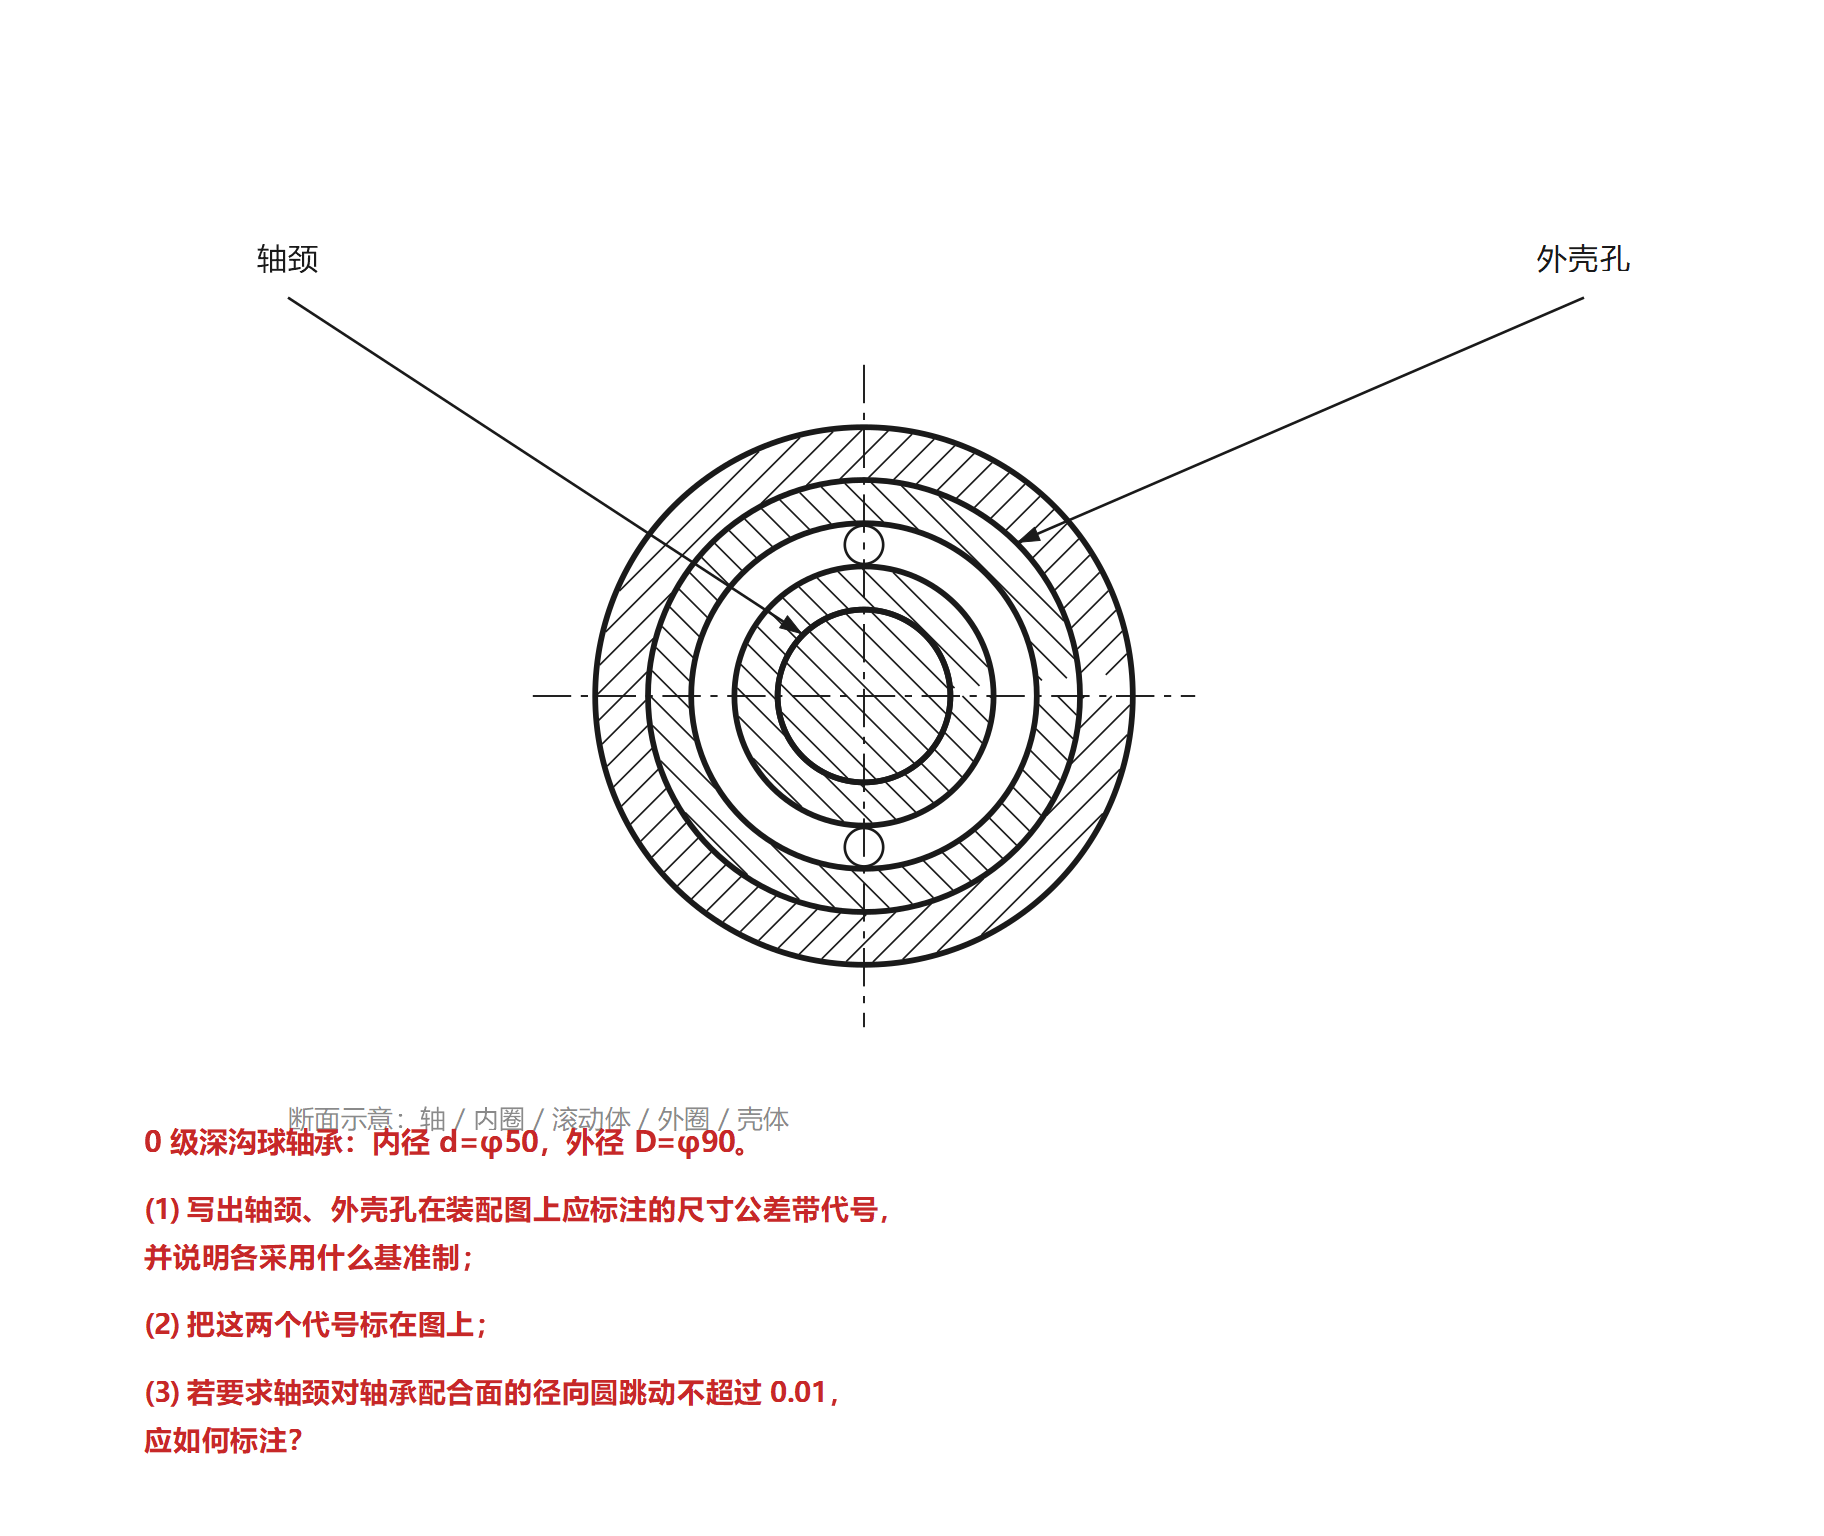
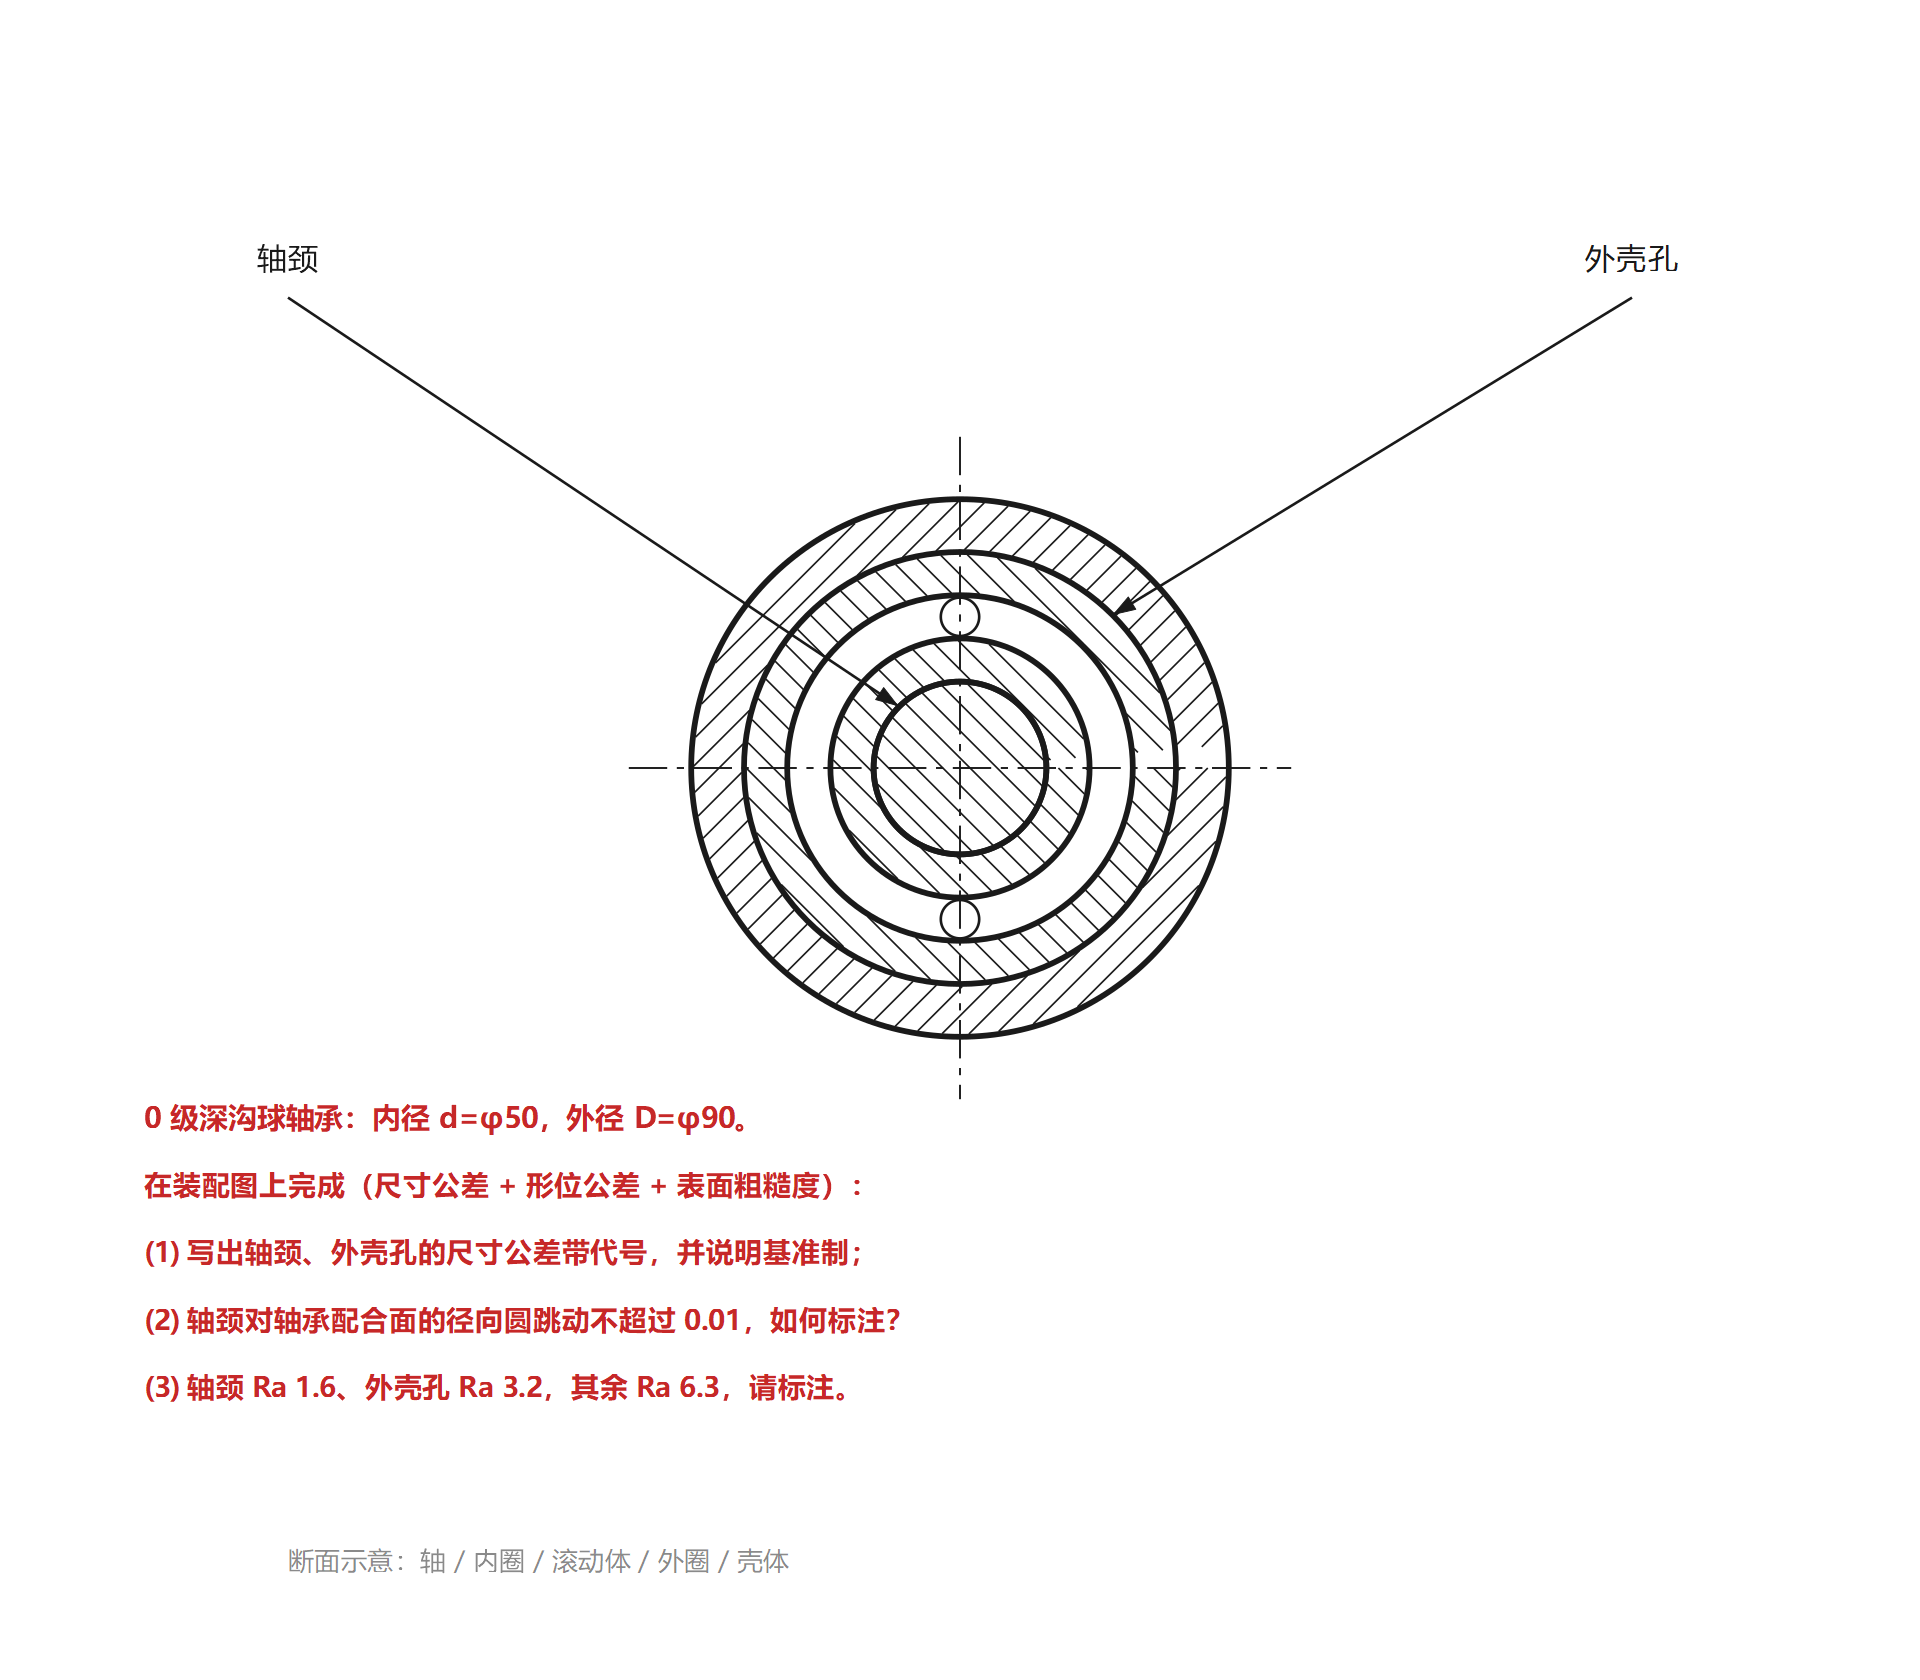
feat(figs): 轴承应用题加表面粗糙度，新增键连接应用题（bz5 题图/答案图）

diff --git a/scripts/figures/fig_ic_biaozhu.py b/scripts/figures/fig_ic_biaozhu.py
@@ -16,9 +16,10 @@ import sys
 HERE = os.path.dirname(os.path.abspath(__file__))
 sys.path.insert(0, HERE)
 
-from gdt import Fig, INK, RED, BLUE, GRAY, W_THICK, W_THIN
+from gdt import (Fig, INK, RED, BLUE, GRAY, W_THICK, W_THIN,
+                 roughness, uniform_roughness)
 from fig_ic_parts import (stepped_shaft, sleeve_section, plate_top,
-                          bearing_section)
+                          bearing_section, key_joint_cross)
 
 OUT = os.path.abspath(
     os.path.join(HERE, "..", "..", "courses", "interchangeability", "src", "assets", "figs")
@@ -181,41 +182,98 @@ def biaozhu3(which: str):
 
 # ---------------------------------------------------------------- 标注 4（应用）
 def biaozhu4(which: str):
-    """滚动轴承装配（断面）：标轴颈 / 外壳孔配合代号 + 轴颈径向圆跳动。"""
-    f = Fig(760, 640)
-    a = bearing_section(f, cx=360, cy=290, r_shaft=36, r_in_out=54,
+    """滚动轴承装配（断面）：配合代号 + 轴颈径向圆跳动 + 表面粗糙度。"""
+    f = Fig(800, 700)
+    a = bearing_section(f, cx=400, cy=320, r_shaft=36, r_in_out=54,
                         r_out_in=72, r_out_out=90, r_housing=112)
     f.text(120, 112, "轴颈", size=12.5, anchor="middle")
-    f.leader([(120, 124), (360 - 26, 290 - 26)])
-    f.text(660, 112, "外壳孔", size=12.5, anchor="middle")
-    f.leader([(660, 124), (360 + 64, 290 - 64)])
-    f.text(120, 470, "断面示意：轴 / 内圈 / 滚动体 / 外圈 / 壳体", size=11,
+    f.leader([(120, 124), (400 - 26, 320 - 26)])
+    f.text(680, 112, "外壳孔", size=12.5, anchor="middle")
+    f.leader([(680, 124), (400 + 64, 320 - 64)])
+    f.text(120, 654, "断面示意：轴 / 内圈 / 滚动体 / 外圈 / 壳体", size=11,
            color=GRAY, anchor="start")
 
     if which == "a":
+        # ① ② 配合代号
         f.text(120, 170, "φ50k6", size=14, color=RED, weight="bold")
-        f.text(120, 188, "基孔制", size=11, color=RED)
-        f.text(660, 170, "φ90H7", size=14, color=RED, weight="bold")
-        f.text(660, 188, "基轴制", size=11, color=RED)
-        r1 = f.frame(430, 520, [("sym", "circular_runout"), ("val", "0.01"),
+        f.text(120, 188, "（基孔制）", size=11, color=RED)
+        f.text(680, 170, "φ90H7", size=14, color=RED, weight="bold")
+        f.text(680, 188, "（基轴制）", size=11, color=RED)
+        # ③ 形位公差：轴颈径向圆跳动
+        r1 = f.frame(470, 560, [("sym", "circular_runout"), ("val", "0.01"),
                                 ("dat", "A")])
-        f.leader([(r1["x0"], r1["cy"]), (430, 430), (400, 332)], head=False)
-        f.arrowhead(386, 316, -135)
-        f.datum(360, 290 + 136, "down", "A")
+        f.leader([(r1["x0"], r1["cy"]), (470, 470), (420, 348)], head=False)
+        f.arrowhead(408, 334, -135)
+        f.datum(400, 320 + 136, "down", "A")
+        # ④ ⑤ 表面粗糙度：轴颈 / 外壳孔
+        roughness(f, 190, 430, "Ra 1.6", mode="remove", s=24)
+        f.leader([(190, 430), (400 - 30, 320 + 16)], head=False, size=6)
+        f.dot(400 - 30, 320 + 16, r=2.2, color=RED)
+        roughness(f, 610, 430, "Ra 3.2", mode="remove", s=24)
+        f.leader([(610, 430), (400 + 58, 320 + 58)], head=False, size=6)
+        f.dot(400 + 58, 320 + 58, r=2.2, color=RED)
+        uniform_roughness(f, 590, 640, "Ra 6.3")
         badge(f, 1, 120, 96, color=RED)
-        badge(f, 2, 660, 96, color=RED)
-        badge(f, 3, 470, 336, color=RED)
+        badge(f, 2, 680, 96, color=RED)
+        badge(f, 3, 440, 300, color=RED)
+        badge(f, 4, 158, 396, color=RED)
+        badge(f, 5, 646, 396, color=RED)
     else:
-        note(f, 60, 480, "0 级深沟球轴承：内径 d=φ50，外径 D=φ90。", size=12)
-        note(f, 60, 508, "(1) 写出轴颈、外壳孔在装配图上应标注的尺寸公差带代号，", size=11.5)
-        note(f, 60, 528, "     并说明各采用什么基准制；", size=11.5)
-        note(f, 60, 556, "(2) 把这两个代号标在图上；", size=11.5)
-        note(f, 60, 584, "(3) 若要求轴颈对轴承配合面的径向圆跳动不超过 0.01，", size=11.5)
-        note(f, 60, 604, "     应如何标注？", size=11.5)
+        note(f, 60, 470, "0 级深沟球轴承：内径 d=φ50，外径 D=φ90。", size=12)
+        note(f, 60, 498, "在装配图上完成（尺寸公差 + 形位公差 + 表面粗糙度）：", size=11.5)
+        note(f, 60, 526, "(1) 写出轴颈、外壳孔的尺寸公差带代号，并说明基准制；", size=11.5)
+        note(f, 60, 554, "(2) 轴颈对轴承配合面的径向圆跳动不超过 0.01，如何标注？", size=11.5)
+        note(f, 60, 582, "(3) 轴颈 Ra 1.6、外壳孔 Ra 3.2，其余 Ra 6.3，请标注。", size=11.5)
     f.save(os.path.join(OUT, f"bz4-{'q' if which == 'q' else 'a'}.png"))
 
 
+def biaozhu5(which: str):
+    """键连接（平键）断面：尺寸公差 + 对称度 + 表面粗糙度。"""
+    f = Fig(820, 620)
+    cx, cy = 330, 300
+    a = key_joint_cross(f, cx=cx, cy=cy, r_shaft=64, r_hub=112,
+                        width=41, t1=13, t2=8)
+    half, h_s = a["half"], a["h_s"]
+    y_dim = 92
+    for x in (cx - half, cx + half):
+        f.line(x, cy - h_s + 4, x, y_dim, w=W_THIN, color=GRAY)
+    f.line(cx - half, y_dim, cx + half, y_dim, w=W_THIN)
+    f.arrowhead(cx - half, y_dim, 180)
+    f.arrowhead(cx + half, y_dim, 0)
+    f.text(cx, y_dim - 13, "16", size=13)
+
+    if which == "a":
+        # ① 对称度：被测是键槽中心平面 → 指引线与 16 的尺寸线对齐
+        f.line(cx + half, y_dim, 500, y_dim, w=W_THIN)
+        f.frame(500, y_dim - 13, [("sym", "symmetry"), ("val", "0.02"),
+                                  ("dat", "A")])
+        f.datum(cx, cy + 148, "down", "A")
+        # ② 轴槽宽配合（轴槽与键）
+        note(f, 600, 330, "16N9/h8", size=13)
+        f.leader([(596, 326), (cx + half + 4, cy - 56)], head=False, size=6)
+        f.dot(cx + half + 4, cy - 56, r=2.2, color=RED)
+        # ③ 轮毂槽宽配合
+        note(f, 600, 250, "16JS9/h8", size=13)
+        f.leader([(596, 246), (cx + half + 4, cy - 66)], head=False, size=6)
+        f.dot(cx + half + 4, cy - 66, r=2.2, color=RED)
+        # ④ 槽侧面 Ra 3.2（注在尺寸界线延长线上）
+        roughness(f, cx - half, cy - 150, "Ra 3.2", mode="remove", s=22, angle=-90)
+        f.dot(cx - half, cy - 150, r=2.2, color=RED)
+        uniform_roughness(f, 560, 520, "Ra 6.3", s=22)
+        badge(f, 1, 506, y_dim - 40, color=RED)
+        badge(f, 2, 704, 306, color=RED)
+        badge(f, 3, 704, 226, color=RED)
+        badge(f, 4, 246, 122, color=RED)
+    else:
+        note(f, 60, 460, "键连接（平键）：轴 φ50，键 16×10，一般联结。", size=12)
+        note(f, 60, 488, "在装配图上完成（尺寸公差 + 形位公差 + 表面粗糙度）：", size=11.5)
+        note(f, 60, 516, "(1) 标出轴槽、轮毂槽的键宽配合代号（键宽 h8，标准件不标）；", size=11.5)
+        note(f, 60, 544, "(2) 键槽两侧面对轴线的对称度 0.02，基准 A 为轴线；", size=11.5)
+        note(f, 60, 572, "(3) 键槽侧面 Ra 3.2、槽底 Ra 6.3、其余 Ra 6.3。", size=11.5)
+    f.save(os.path.join(OUT, f"bz5-{'q' if which == 'q' else 'a'}.png"))
+
+
 if __name__ == "__main__":
-    for fn in (biaozhu1, biaozhu2, biaozhu3, biaozhu4):
+    for fn in (biaozhu1, biaozhu2, biaozhu3, biaozhu4, biaozhu5):
         for w in ("q", "a"):
             fn(w)
